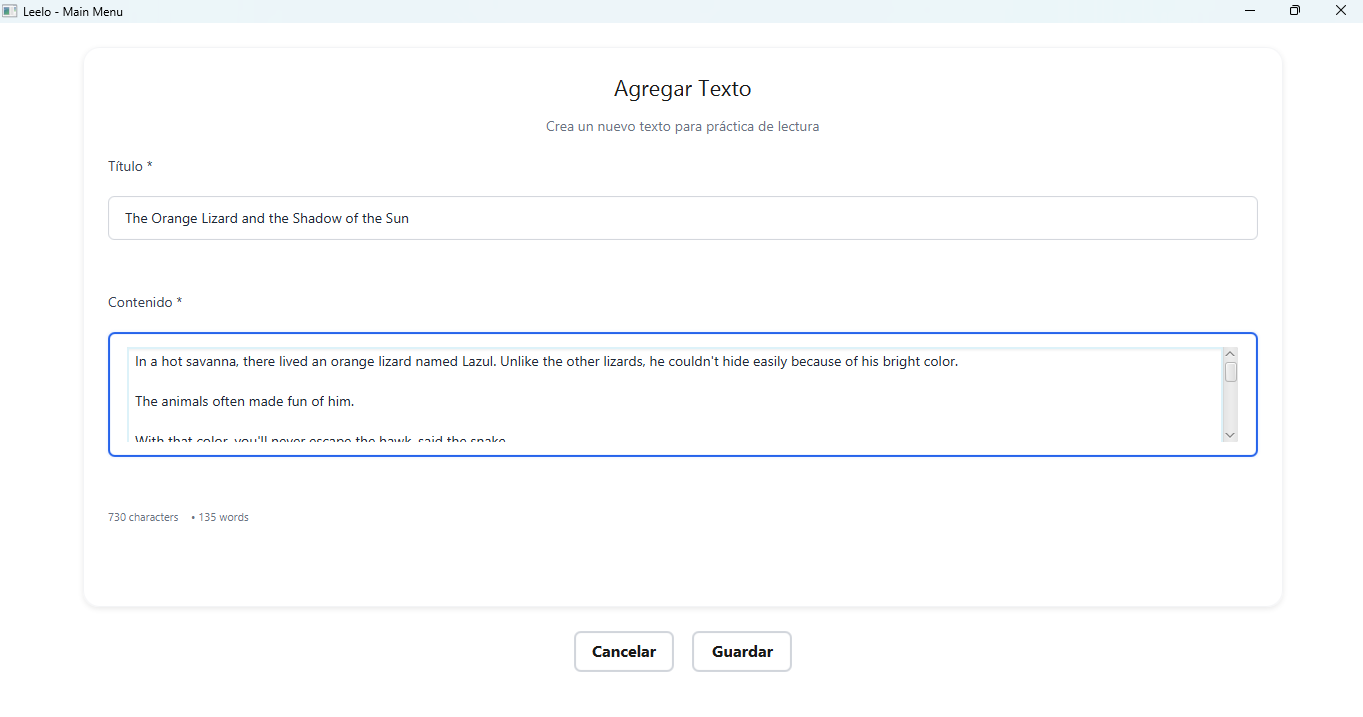
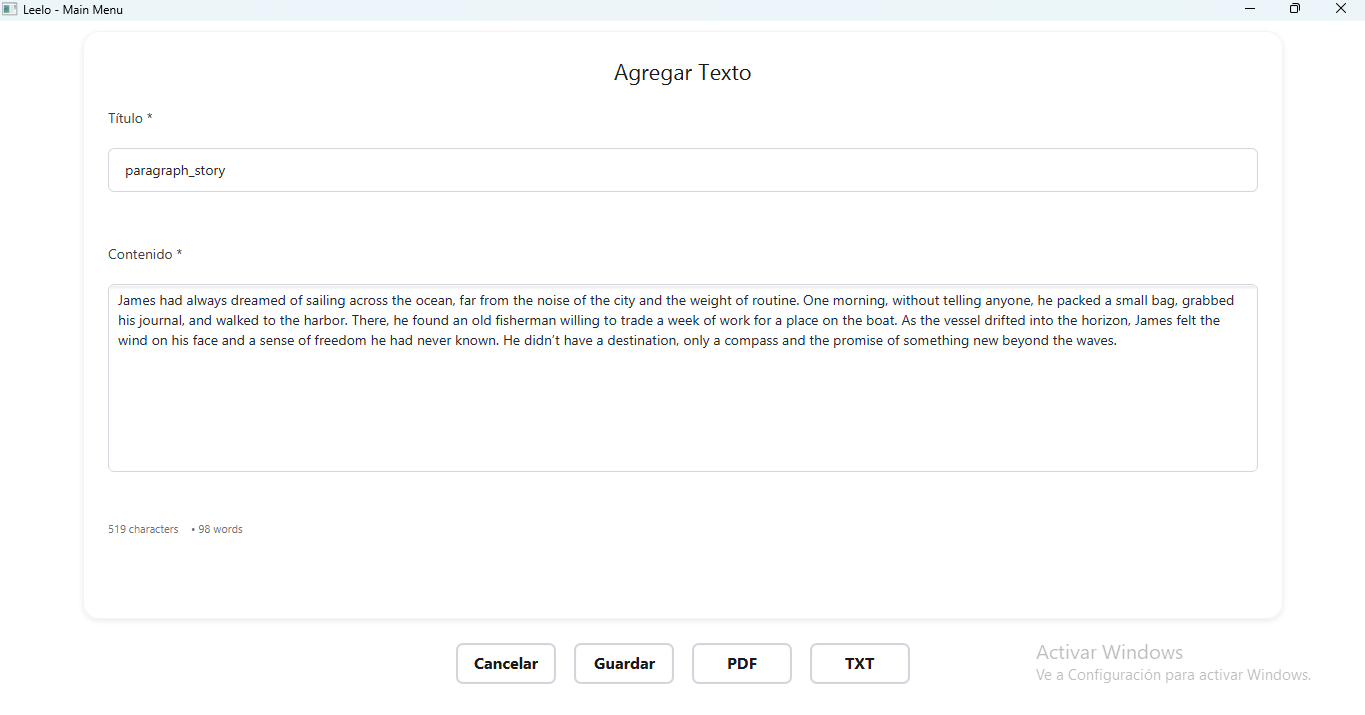
fix select files

diff --git a/src/main/java/com/leelo/controller/addTextController.java b/src/main/java/com/leelo/controller/addTextController.java
@@ -19,34 +19,49 @@ import org.apache.pdfbox.text.PDFTextStripper;
 import java.io.IOException;
 import java.nio.file.Files;
 
-
 public class addTextController {
 
     // Form fields
-    @FXML private TextField titleField;
-    @FXML private TextArea areaContent;
-    @FXML private Button saveButton;
-    @FXML private Button backButton;
-    @FXML private Button pdfButton; 
-    @FXML private Button txtButton; 
-    
+    @FXML
+    private TextField titleField;
+    @FXML
+    private TextArea areaContent;
+    @FXML
+    private Button saveButton;
+    @FXML
+    private Button backButton;
+    @FXML
+    private Button pdfButton;
+    @FXML
+    private Button txtButton;
+
     // UI elements for enhanced functionality
-    @FXML private Label formTitleLabel;
-    @FXML private Label messageLabel;
-    @FXML private Label titleValidationLabel;
-    @FXML private Label contentValidationLabel;
-    @FXML private Label characterCountLabel;
-    @FXML private Label wordCountLabel;
-    @FXML private VBox messageContainer;
-    @FXML private StackPane loadingContainer;
-    @FXML private ProgressIndicator loadingIndicator;
-    @FXML private HBox buttonContainer;
+    @FXML
+    private Label formTitleLabel;
+    @FXML
+    private Label messageLabel;
+    @FXML
+    private Label titleValidationLabel;
+    @FXML
+    private Label contentValidationLabel;
+    @FXML
+    private Label characterCountLabel;
+    @FXML
+    private Label wordCountLabel;
+    @FXML
+    private VBox messageContainer;
+    @FXML
+    private StackPane loadingContainer;
+    @FXML
+    private ProgressIndicator loadingIndicator;
+    @FXML
+    private HBox buttonContainer;
 
     private TextService textService = new TextService();
     private Text textToEdit = null;
     private boolean isLoading = false;
 
-    // Method called from text controller for edit 
+    // Method called from text controller for edit
     public void setTextToEdit(Text text) {
         this.textToEdit = text;
         if (text != null) {
@@ -71,13 +86,12 @@ public class addTextController {
         pdfButton.setOnAction(e -> saveFromPdf());
         txtButton.setOnAction(e -> saveFromTxt());
 
-        
         // Real-time character and word counting
         areaContent.textProperty().addListener((observable, oldValue, newValue) -> {
             updateCharacterCount();
             clearContentValidation();
         });
-        
+
         titleField.textProperty().addListener((observable, oldValue, newValue) -> {
             clearTitleValidation();
         });
@@ -90,7 +104,7 @@ public class addTextController {
                 validateTitle();
             }
         });
-        
+
         areaContent.focusedProperty().addListener((observable, oldValue, newValue) -> {
             if (!newValue) { // Lost focus
                 validateContent();
@@ -102,14 +116,14 @@ public class addTextController {
         String content = areaContent.getText();
         int charCount = content.length();
         int wordCount = content.trim().isEmpty() ? 0 : content.trim().split("\\s+").length;
-        
+
         characterCountLabel.setText(charCount + " characters");
         wordCountLabel.setText("• " + wordCount + " words");
     }
 
     private boolean validateTitle() {
         String title = titleField.getText().trim();
-        
+
         if (title.isEmpty()) {
             showTitleValidation("Title is required", true);
             applyFieldErrorStyle(titleField);
@@ -131,7 +145,7 @@ public class addTextController {
 
     private boolean validateContent() {
         String content = areaContent.getText().trim();
-        
+
         if (content.isEmpty()) {
             showContentValidation("Content is required", true);
             applyFieldErrorStyle(areaContent);
@@ -190,16 +204,18 @@ public class addTextController {
     }
 
     private void clearFieldStyle(Control field) {
-        field.getStyleClass().removeAll("text-field-error", "text-area-error", "text-field-success", "text-area-success");
+        field.getStyleClass().removeAll("text-field-error", "text-area-error", "text-field-success",
+                "text-area-success");
     }
 
     private void saveOrUpdateText() {
-        if (isLoading) return;
-        
+        if (isLoading)
+            return;
+
         // Validate all fields
         boolean titleValid = validateTitle();
         boolean contentValid = validateContent();
-        
+
         if (!titleValid || !contentValid) {
             showMessage("Please fix the validation errors above", MessageType.ERROR);
             return;
@@ -207,17 +223,17 @@ public class addTextController {
 
         // Show loading state
         setLoadingState(true);
-        
+
         // Create background task for saving
         Task<Boolean> saveTask = new Task<Boolean>() {
             @Override
             protected Boolean call() throws Exception {
                 // Simulate some processing time for better UX
                 Thread.sleep(500);
-                
+
                 String title = titleField.getText().trim();
                 String content = areaContent.getText().trim();
-                
+
                 boolean success;
                 if (textToEdit != null) {
                     textToEdit.setTittle(title);
@@ -229,24 +245,24 @@ public class addTextController {
                     text.setText(content);
                     success = textService.addText(text);
                 }
-                
+
                 return success;
             }
         };
-        
+
         saveTask.setOnSucceeded(e -> {
             Platform.runLater(() -> {
                 setLoadingState(false);
                 boolean success = saveTask.getValue();
-                
+
                 if (success) {
                     String action = textToEdit != null ? "updated" : "saved";
                     showMessage("Text " + action + " successfully!", MessageType.SUCCESS);
-                    
+
                     // Apply success styles to fields
                     applyFieldSuccessStyle(titleField);
                     applyFieldSuccessStyle(areaContent);
-                    
+
                     // Navigate back after a short delay
                     Platform.runLater(() -> {
                         try {
@@ -261,83 +277,83 @@ public class addTextController {
                 }
             });
         });
-        
+
         saveTask.setOnFailed(e -> {
             Platform.runLater(() -> {
                 setLoadingState(false);
                 showMessage("An error occurred while saving. Please try again.", MessageType.ERROR);
             });
         });
-        
+
         // Run the task in background thread
         Thread saveThread = new Thread(saveTask);
         saveThread.setDaemon(true);
         saveThread.start();
     }
 
-    
     private void saveFromPdf() {
-    FileChooser fileChooser = new FileChooser();
-    fileChooser.setTitle("Selecciona un archivo PDF");
-    fileChooser.getExtensionFilters().add(new FileChooser.ExtensionFilter("Archivos PDF", "*.pdf"));
+        FileChooser fileChooser = new FileChooser();
+        fileChooser.setTitle("Selecciona un archivo PDF");
+        fileChooser.getExtensionFilters().add(new FileChooser.ExtensionFilter("Archivos PDF", "*.pdf"));
+        fileChooser.setInitialDirectory(new File(System.getProperty("user.home") + "/Documents"));
 
-    File selectedFile = fileChooser.showOpenDialog(null);
-    if (selectedFile != null) {
-        String fileName = selectedFile.getName();
-        if (fileName.toLowerCase().endsWith(".pdf")) {
-            fileName = fileName.substring(0, fileName.length() - 4);
-        }
-        titleField.setText(fileName);
-
-        try (PDDocument document = Loader.loadPDF(selectedFile)) {
-            if (!document.isEncrypted()) {
-                PDFTextStripper stripper = new PDFTextStripper();
-                String text = stripper.getText(document);
-                areaContent.setText(text);
-            } else {
-                showError("El archivo está encriptado.");
-            }
-        } catch (Exception e) {
-            showError("Error al leer el PDF: " + e.getMessage());
-        }
-    }
-}
-
-    private void showError(String message) {
-    Alert alert = new Alert(Alert.AlertType.ERROR);
-    alert.setTitle("Error");
-    alert.setContentText(message);
-    alert.showAndWait();
-}
-
-    private void saveFromTxt() {
-    FileChooser fileChooser = new FileChooser();
-    fileChooser.setTitle("Selecciona un archivo de texto");
-    fileChooser.getExtensionFilters().add(
-        new FileChooser.ExtensionFilter("Archivos de texto (*.txt)", "*.txt")
-    );
-
-    File selectedFile = fileChooser.showOpenDialog(null);
-    if (selectedFile != null) {
-        try {
-            String content = Files.readString(selectedFile.toPath());
+        File selectedFile = fileChooser.showOpenDialog(null);
+        
+        if (selectedFile != null) {
             String fileName = selectedFile.getName();
-            if (fileName.toLowerCase().endsWith(".txt")) {
+            if (fileName.toLowerCase().endsWith(".pdf")) {
                 fileName = fileName.substring(0, fileName.length() - 4);
             }
-
             titleField.setText(fileName);
-            areaContent.setText(content);
-            System.out.println("Texto cargado desde: " + fileName);
 
-        } catch (IOException e) {
-            System.err.println("Error leyendo el archivo TXT: " + e.getMessage());
+            try (PDDocument document = Loader.loadPDF(selectedFile)) {
+                if (!document.isEncrypted()) {
+                    PDFTextStripper stripper = new PDFTextStripper();
+                    String text = stripper.getText(document);
+                    areaContent.setText(text);
+                } else {
+                    showError("El archivo está encriptado.");
+                }
+            } catch (Exception e) {
+                showError("Error al leer el PDF: " + e.getMessage());
+            }
         }
-    } else {
-        System.out.println("Selección cancelada.");
     }
-}
 
+    private void showError(String message) {
+        Alert alert = new Alert(Alert.AlertType.ERROR);
+        alert.setTitle("Error");
+        alert.setContentText(message);
+        alert.showAndWait();
+    }
+
+    private void saveFromTxt() {
+        FileChooser fileChooser = new FileChooser();
+        fileChooser.setTitle("Selecciona un archivo de texto");
+        fileChooser.getExtensionFilters().add(
+                new FileChooser.ExtensionFilter("Archivos de texto (*.txt)", "*.txt"));
+        fileChooser.setInitialDirectory(new File(System.getProperty("user.home") + "/Documents"));        
+
+        File selectedFile = fileChooser.showOpenDialog(null);
+        if (selectedFile != null) {
+            try {
+                String content = Files.readString(selectedFile.toPath());
+                String fileName = selectedFile.getName();
+                if (fileName.toLowerCase().endsWith(".txt")) {
+                    fileName = fileName.substring(0, fileName.length() - 4);
+                }
+
+                titleField.setText(fileName);
+                areaContent.setText(content);
+                System.out.println("Texto cargado desde: " + fileName);
+
+            } catch (IOException e) {
+                System.err.println("Error leyendo el archivo TXT: " + e.getMessage());
+            }
+        } else {
+            System.out.println("Selección cancelada.");
+        }
+    }
 
     private void setLoadingState(boolean loading) {
         isLoading = loading;
@@ -345,7 +361,7 @@ public class addTextController {
         loadingContainer.setManaged(loading);
         buttonContainer.setVisible(!loading);
         buttonContainer.setManaged(!loading);
-        
+
         // Disable form fields during loading
         titleField.setDisable(loading);
         areaContent.setDisable(loading);
@@ -366,15 +382,14 @@ public class addTextController {
     private void showMessage(String message, MessageType type) {
         messageLabel.setText(message);
         messageContainer.setVisible(true);
-        
+
         // Clear existing style classes
         messageLabel.getStyleClass().removeAll(
-            "validation-message-success", 
-            "validation-message-error", 
-            "validation-message-warning", 
-            "validation-message-info"
-        );
-        
+                "validation-message-success",
+                "validation-message-error",
+                "validation-message-warning",
+                "validation-message-info");
+
         // Apply appropriate style class
         switch (type) {
             case SUCCESS:
@@ -390,7 +405,7 @@ public class addTextController {
                 messageLabel.getStyleClass().add("validation-message-info");
                 break;
         }
-        
+
         // Auto-hide success messages after 3 seconds
         if (type == MessageType.SUCCESS) {
             Platform.runLater(() -> {
@@ -405,4 +420,4 @@ public class addTextController {
             });
         }
     }
-} 
+}

diff --git a/src/main/java/com/leelo/controller/ReadingController.java b/src/main/java/com/leelo/controller/ReadingController.java
@@ -44,7 +44,7 @@ public class ReadingController {
     private WordService WordService = new WordService();
     private Map<String, Word> savedWords = new HashMap<>();
     private List<String> pages = new ArrayList<>();
-    private static final int WORDS_PER_PAGE = 300;
+    private static final int WORDS_PER_PAGE = 400;
 
     @FXML
     public void initialize() {
